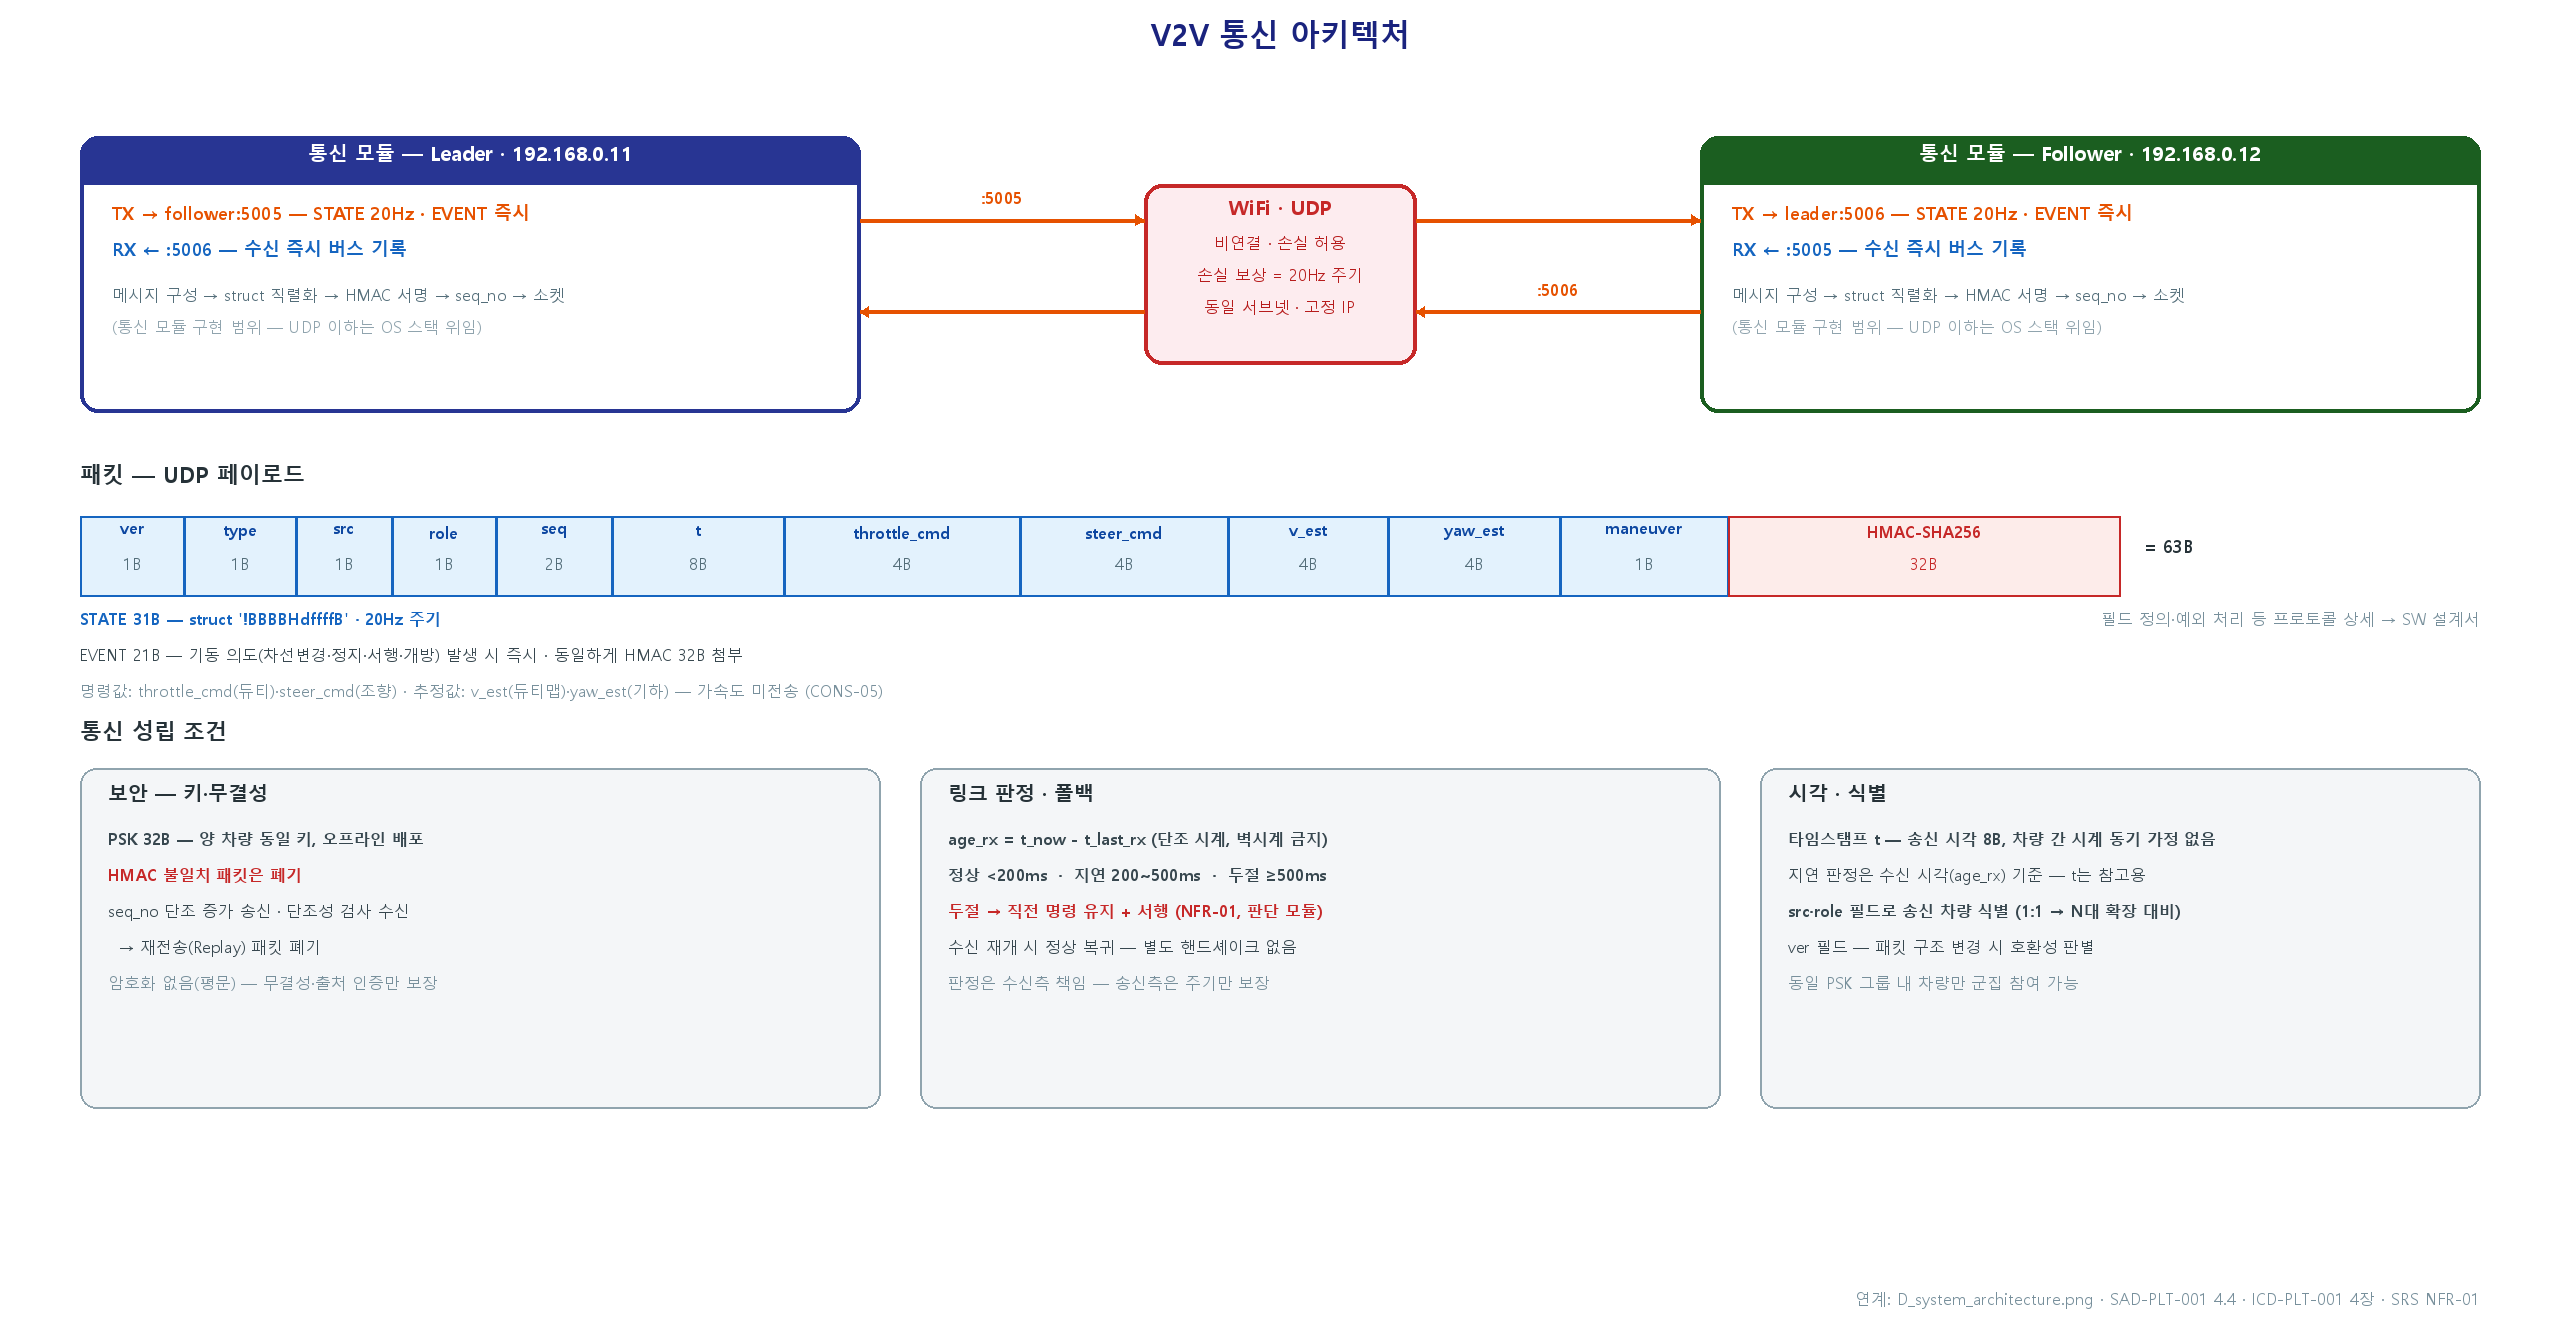
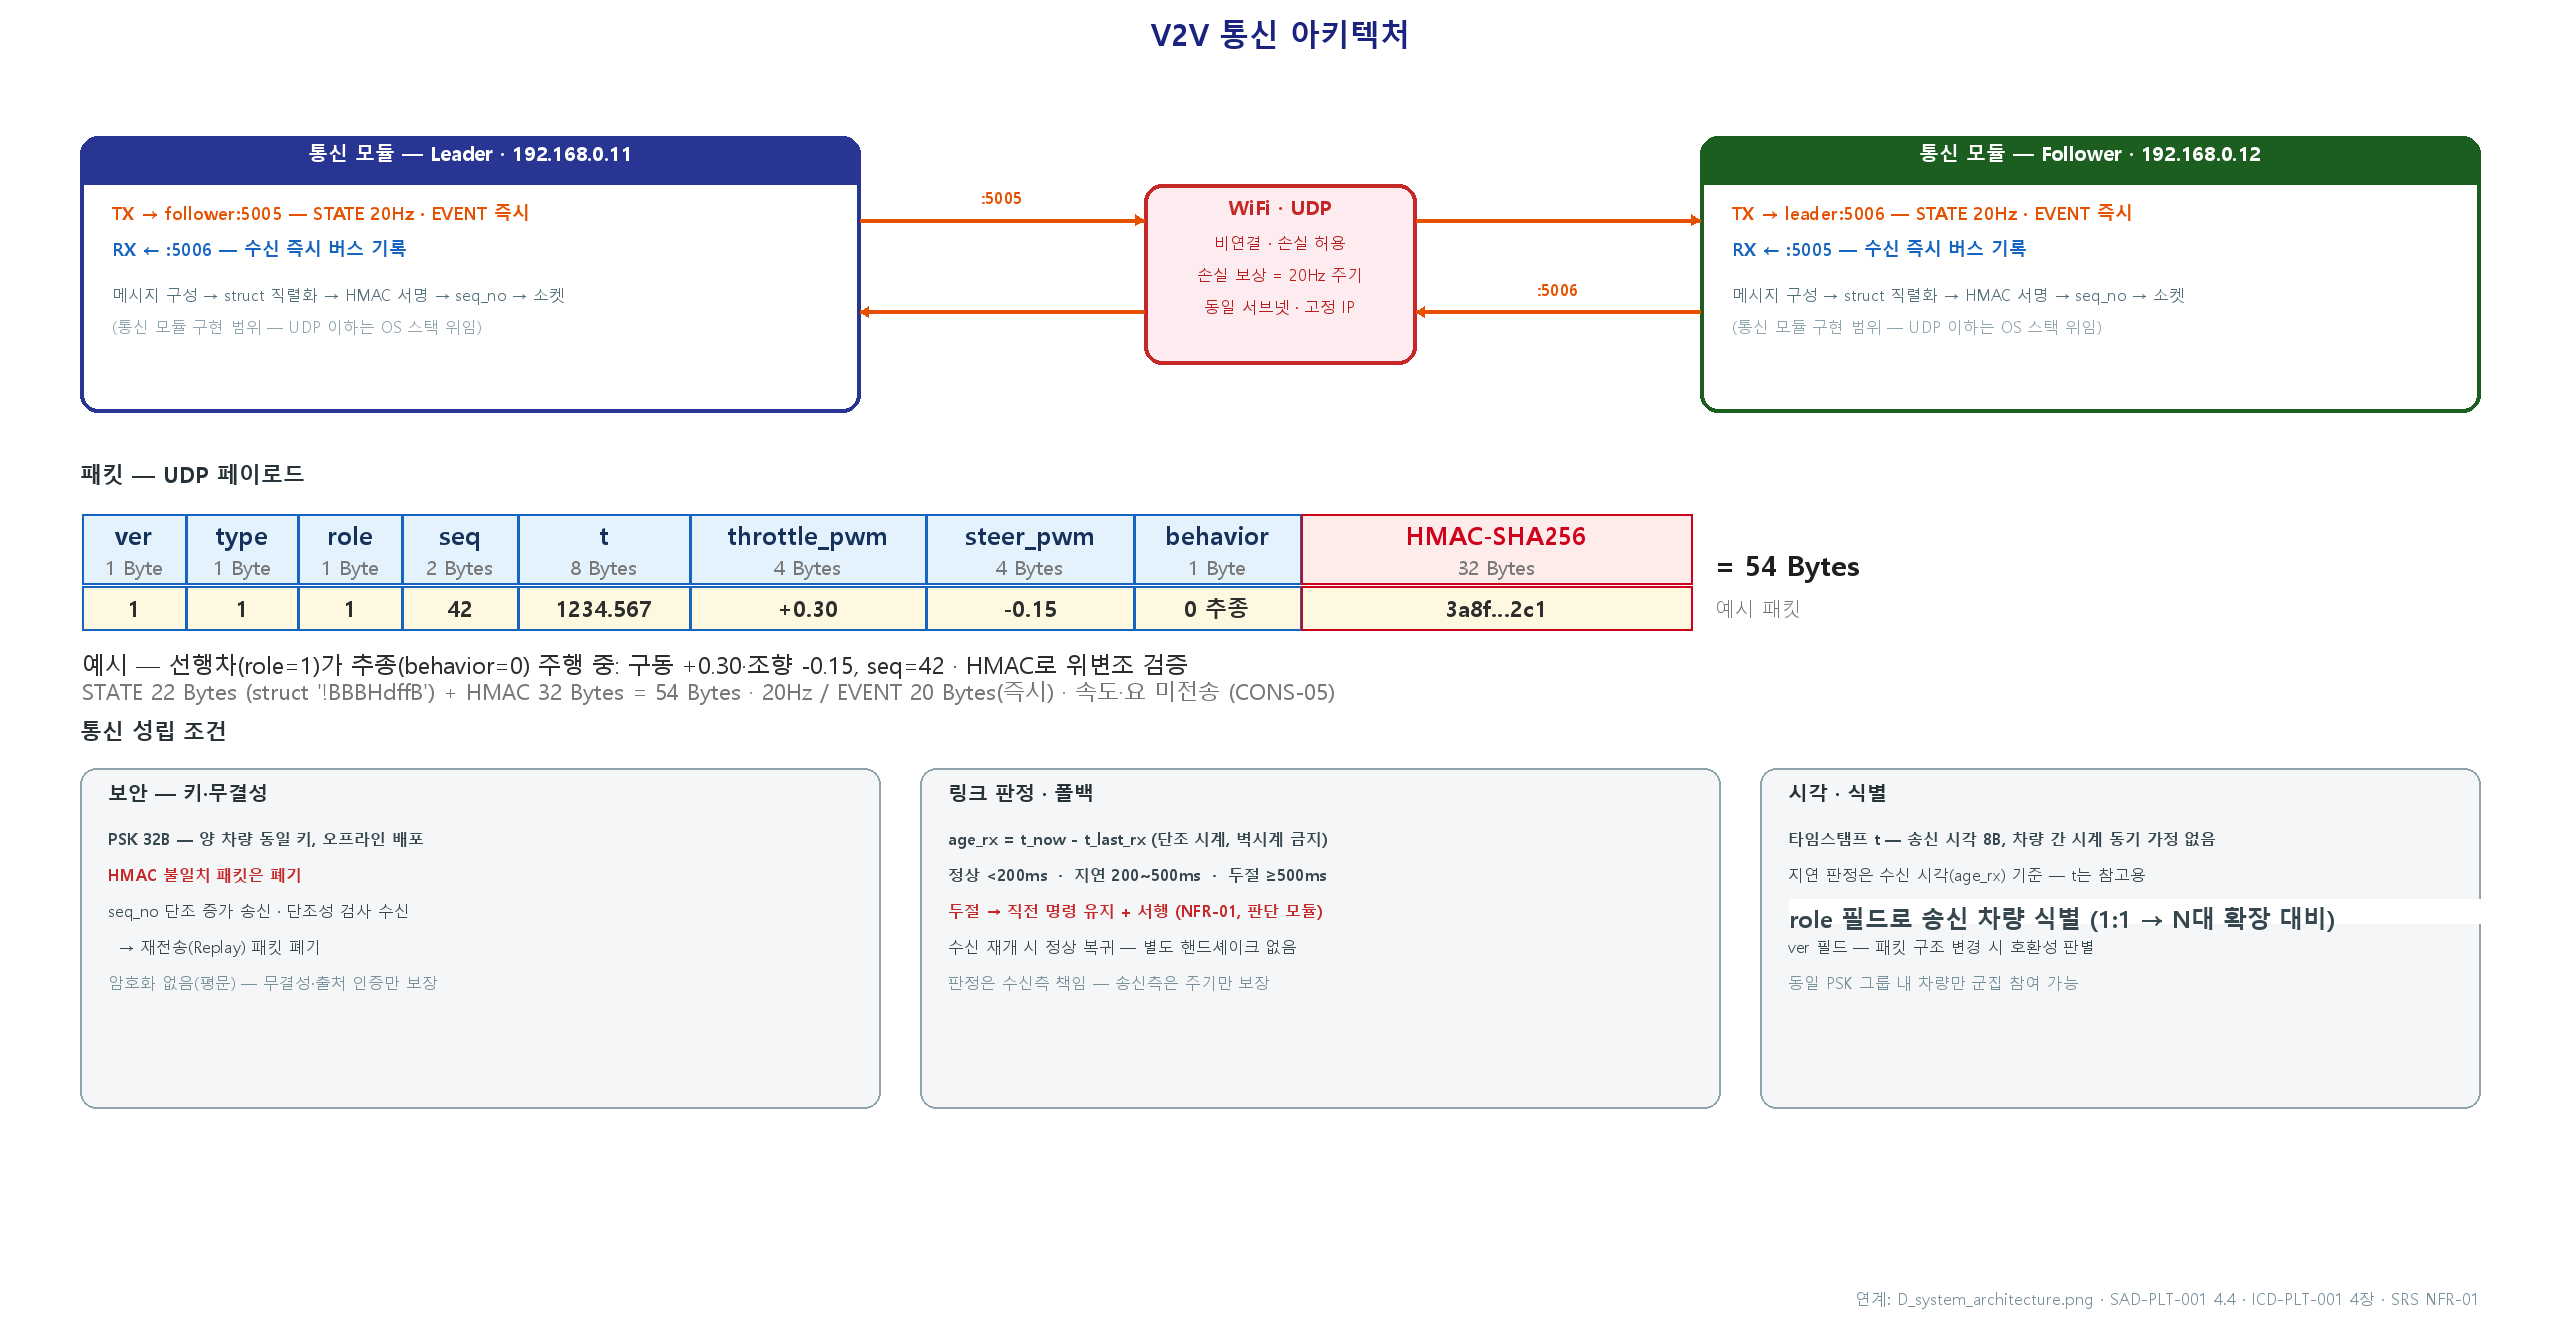
feat: 2원칙 정합 CR — 종=PWM→DC모터 후륜·횡=PWM→서보1개, 코드↔문서↔다이어그램 양방향 일관
제어 2원칙으로 코드·문서 14종·다이어그램 4개 전면 정합 (속도센서 없음, CONS-05):
- 네이밍: throttle_cmd→throttle_pwm, steer_cmd→steer_pwm, maneuver→behavior, decision/command, DriveCommand/DriveBehavior
- STATE 패킷 31B/63B→22B/54B(!BBBHdffB): v_est·yaw_est 제거(PWM에서 파생·중복), src·mode 제거, behavior 추가. ICD 와이어표=코드 패킷 정확 일치
- 속도 PID·조향각 PID/실측 제거(SRS 발원지부터 SAD/SDD/SUT 전파): 종=개루프 듀티, 후행=초음파 거리 단순보정, 횡=카메라 차선루프
- 코드↔문서 인터페이스 정합: lane_curvature·dist_front_m·t_tx·t_rx·age_rx·last_seq·ModeCmd.cause·V2VState.role, GPIO 핀 12/13·5·6/23·24
- 신설: NFR-05 통신보안(HMAC·PSK·seq) 전 매트릭스 전파, CONS-05 HRS 추가, HRS 제약-요구 연결 정정
- 다이어그램: 통신(패킷표 Bytes 표기+완성 패킷 예시), 시스템·SW(라벨), HW 점검
- 검증: 포괄 양방향 추적성 감사 3회 수렴 — high 0건, Baseline 승인 가능
- src/: 6인 협업 평면 구조(파일=담당), 스모크·코덱 테스트 통과

Changed region(s): [[0.0312, 0.3683, 0.7188, 0.5217], [0.6875, 0.6751, 0.9062, 0.7058], [0.7188, 0.3683, 0.7812, 0.399]]

diff --git a/src/comm.py b/src/comm.py
@@ -1,10 +1,11 @@
 """통신 (DD-COM) — V2V 송수신. 이 한 파일이 통신 담당의 전부.
 
-  TX: 스케줄러가 매 50ms step() 호출 → 자차 EgoState 를 STATE 패킷으로 송신 + link_status 갱신.
+  TX: 스케줄러가 매 50ms step() 호출 → 자차 PWM 명령+행동을 STATE 패킷으로 송신 + link_status 갱신.
   RX: 별도 스레드 → 수신·HMAC 검증·디코드 → 버스에 V2VState·link_status 기록.
 
-STATE 패킷 = 본문 31B + HMAC-SHA256 32B = 63B.
-  본문 '!BBBBHdffffB' = ver type role mode seq t_tx throttle steer v_est yaw_est flags
+STATE 패킷 = 본문 22B + HMAC-SHA256 32B = 54B.
+  본문 '!BBBHdffB' = ver type role seq t_tx throttle_pwm steer_pwm behavior
+  (CONS-05: 속도·요 측정 불가 → PWM 명령 throttle_pwm·steer_pwm + 행동 behavior 만 전송)
 """
 import socket
 import struct
@@ -15,34 +16,34 @@ import time
 
 import config
 from bus import Topics
-from contracts import V2VState, LinkStatus, LinkState, Role, Mode
+from contracts import V2VState, LinkStatus, LinkState, Role, DriveBehavior
 
 # ── STATE 패킷 코덱 ───────────────────────────────────────────────────
-_FMT = "!BBBBHdffffB"
-_HDR = struct.calcsize(_FMT)        # 31
-PACKET_LEN = _HDR + 32              # 63
+_FMT = "!BBBHdffB"
+_HDR = struct.calcsize(_FMT)        # 22
+PACKET_LEN = _HDR + 32              # 54
 _VER, _STATE = 1, 1
 
 
-def pack_state(ego, role, seq, mode, key):
-    """EgoState → 63B STATE 패킷."""
-    body = struct.pack(_FMT, _VER, _STATE, int(role), int(mode), seq & 0xFFFF,
-                       ego.stamp, ego.throttle_cmd, ego.steer_cmd, ego.v_est, ego.yaw_est, 0)
+def pack_state(ego, role, seq, key):
+    """EgoState(throttle_pwm·steer_pwm·behavior) → 54B STATE 패킷."""
+    body = struct.pack(_FMT, _VER, _STATE, int(role), seq & 0xFFFF,
+                       ego.stamp, ego.throttle_pwm, ego.steer_pwm, int(ego.behavior))
     return body + hmac.new(key, body, hashlib.sha256).digest()
 
 
 def unpack_state(pkt, key):
-    """63B 패킷 → V2VState. 길이/HMAC/버전 불일치 시 ValueError(폐기)."""
+    """54B 패킷 → V2VState. 길이/HMAC/버전 불일치 시 ValueError(폐기)."""
     if len(pkt) != PACKET_LEN:
         raise ValueError(f"길이 오류 {len(pkt)}≠{PACKET_LEN}")
     body, mac = pkt[:_HDR], pkt[_HDR:]
     if not hmac.compare_digest(mac, hmac.new(key, body, hashlib.sha256).digest()):
         raise ValueError("HMAC 불일치 — 위변조/키 불일치 패킷 폐기")
-    ver, typ, role, mode, seq, t, thr, st, v, yaw, _flags = struct.unpack(_FMT, body)
+    ver, typ, role, seq, t, thr, st, beh = struct.unpack(_FMT, body)
     if ver != _VER or typ != _STATE:
         raise ValueError(f"미지원 패킷 ver={ver} type={typ}")
-    return V2VState(stamp=t, role=Role(role), seq=seq, mode=Mode(mode),
-                    throttle_cmd=thr, steer_cmd=st, v_est=v, yaw_est=yaw)
+    return V2VState(t_tx=t, role=Role(role), seq=seq,
+                    throttle_pwm=thr, steer_pwm=st, behavior=DriveBehavior(beh))
 
 
 # ── 통신 모듈 ─────────────────────────────────────────────────────────
@@ -68,13 +69,11 @@ class CommModule:
 
     # 스케줄러 호출 — 송신(TX)
     def step(self, bus):
-        ego = bus.read(Topics.EGO_STATE)               # 입력 IF-B4
-        mode_cmd = bus.read(Topics.MODE)               # 입력 IF-B3
-        mode = mode_cmd.mode if mode_cmd is not None else Mode.NORMAL
+        ego = bus.read(Topics.EGO_STATE)               # 입력 IF-B4 (throttle_pwm·steer_pwm·behavior)
         if ego is not None:
             self._seq = (self._seq + 1) & 0xFFFF
             try:
-                self._tx.sendto(pack_state(ego, self._role, self._seq, mode, self._key), self._peer)
+                self._tx.sendto(pack_state(ego, self._role, self._seq, self._key), self._peer)
             except OSError:
                 pass                                   # TODO: 송신 실패 카운트/경보
         bus.publish(Topics.LINK_STATUS, self._link_status())   # IF-B6
@@ -90,15 +89,17 @@ class CommModule:
                 state = unpack_state(data, self._key)
             except ValueError:
                 continue                               # 위변조/길이 오류 폐기
-            self._last_rx = time.monotonic()
+            now = time.monotonic()
+            self._last_rx = now
             self._rx_seq = state.seq
+            state.t_rx = now                           # 수신 시각 기록 (IF-B5)
             self._bus.publish(self._rx_topic, state)               # IF-B5
             self._bus.publish(Topics.LINK_STATUS, self._link_status())  # IF-B6
 
     def _link_status(self):
         now = time.monotonic()
         if self._last_rx is None:
-            return LinkStatus(stamp=now, state=LinkState.LOST, age_ms=9999.0, rx_seq=self._rx_seq)
+            return LinkStatus(stamp=now, state=LinkState.LOST, age_rx=9999.0, last_seq=self._rx_seq)
         age = (now - self._last_rx) * 1000.0
         if age < config.LINK_STALE_MS:
             state = LinkState.ALIVE
@@ -106,7 +107,7 @@ class CommModule:
             state = LinkState.STALE
         else:
             state = LinkState.LOST
-        return LinkStatus(stamp=now, state=state, age_ms=age, rx_seq=self._rx_seq)
+        return LinkStatus(stamp=now, state=state, age_rx=age, last_seq=self._rx_seq)
 
     # 생명주기 (main 이 호출, 스케줄러 아님)
     def start(self, bus):

diff --git a/src/motion.py b/src/motion.py
@@ -1,23 +1,34 @@
-"""주행 (STUB — 모션팀 담당). Maneuver 읽어 제어, EgoState 발행 + 액추에이터.
+"""주행 (STUB — 모션팀 담당). DriveCommand 읽어 제어, EgoState 발행 + 액추에이터.
 
-실제: 경로계획·Pure Pursuit(횡)·CACC(후행 종)·구동 듀티 → GPIO/PWM (gpiozero).
-입력: maneuver(IF-B2)·scene(IF-B1)·leader_state(IF-B5, 후행 CACC)
-출력: ego_state(IF-B4) + 서보/DC모터 GPIO
+제어 2원칙:
+  종방향 = throttle_pwm(PWM 듀티) → DC 모터드라이버 → DC 모터 → 후륜 (개루프; 후행만 초음파 거리 보정)
+  횡방향 = steer_pwm(PWM) → 서보 1개 → 좌우 조향 (카메라 차선 루프; 조향각 센서 없음)
+입력: command(IF-B2)·scene(IF-B1)·leader_state(IF-B5)
+출력: ego_state(IF-B4, throttle_pwm·steer_pwm) + 서보/DC모터 GPIO
 주의: GPIO는 라즈베리에서만. 더미는 하드웨어 미접근(노트북 실행 OK).
 """
 import time
 
 from bus import Topics
-from contracts import EgoState
+from contracts import EgoState, DriveBehavior
+
+# 액추에이터 (gpiozero PWM, 피드백 없음. 핀: ICD IF-H3/H4·HWD 기준)
+#   서보(조향): PWMOutputDevice(SERVO_PIN, frequency=50), 펄스폭 1.0~2.0ms·중립 1.5ms (ICD IF-H3)
+#   DC모터(구동): Motor(forward=IN1, backward=IN2, enable=PWM, pwm=True), forward/backward(speed 0~1)
+SERVO_PIN, SERVO_FREQ = 12, 50                          # IF-H3 서보 PWM (HW PWM0)
+SERVO_LEFT, SERVO_CENTER, SERVO_RIGHT = 0.05, 0.075, 0.10   # 1.0ms / 1.5ms 중립 / 2.0ms @50Hz (실측 보정 TBD)
+MOTOR_FORWARD, MOTOR_BACKWARD, MOTOR_ENABLE = 5, 6, 13  # IF-H4 IN1=5·IN2=6·EN/PWM=13 (HW PWM1)
 
 
 class MotionModule:
     def __init__(self, role):
-        self.role = role          # 후행(FOLLOWER)만 CACC 거리 추종
+        self.role = role          # 후행(FOLLOWER)만 초음파 거리 보정
 
     def step(self, bus):
-        maneuver = bus.read(Topics.MANEUVER)           # IF-B2
+        cmd = bus.read(Topics.COMMAND)                 # IF-B2 (behavior)
         scene = bus.read(Topics.SCENE)                 # IF-B1
         leader = bus.read(Topics.LEADER_STATE)         # IF-B5
-        # TODO(모션팀): 제어 산출 → throttle/steer 듀티, GPIO 출력
-        bus.publish(Topics.EGO_STATE, EgoState(stamp=time.monotonic()))   # 출력 IF-B4
+        behavior = cmd.behavior if cmd is not None else DriveBehavior.FOLLOW
+        # TODO(모션팀): 행동대로 throttle_pwm·steer_pwm 산출 → GPIO 출력
+        bus.publish(Topics.EGO_STATE,
+                    EgoState(stamp=time.monotonic(), behavior=behavior))   # 출력 IF-B4

diff --git a/src/test_comm.py b/src/test_comm.py
@@ -8,25 +8,26 @@ import sys
 
 sys.path.insert(0, os.path.dirname(__file__))   # src 어디서 실행하든 import 가능
 
-from contracts import EgoState, Role, Mode      # noqa: E402
-from comm import pack_state, unpack_state, PACKET_LEN   # noqa: E402
+from contracts import EgoState, Role, DriveBehavior   # noqa: E402
+from comm import pack_state, unpack_state, PACKET_LEN  # noqa: E402
 
 KEY = b"test-key"
 
 
 def test_roundtrip():
-    ego = EgoState(stamp=12.5, throttle_cmd=0.3, steer_cmd=-0.2, v_est=1.1, yaw_est=0.05)
-    pkt = pack_state(ego, Role.LEADER, 7, Mode.NORMAL, KEY)
+    ego = EgoState(stamp=12.5, throttle_pwm=0.3, steer_pwm=-0.2, behavior=DriveBehavior.STOP)
+    pkt = pack_state(ego, Role.LEADER, 7, KEY)
     assert len(pkt) == PACKET_LEN
     st = unpack_state(pkt, KEY)
     assert st.seq == 7 and st.role == Role.LEADER
-    assert abs(st.throttle_cmd - 0.3) < 1e-6
-    assert abs(st.v_est - 1.1) < 1e-6
+    assert st.behavior == DriveBehavior.STOP
+    assert abs(st.throttle_pwm - 0.3) < 1e-6
+    assert abs(st.steer_pwm - (-0.2)) < 1e-6
 
 
 def test_tamper_rejected():
-    pkt = bytearray(pack_state(EgoState(throttle_cmd=0.5), Role.FOLLOWER, 1, Mode.NORMAL, KEY))
-    pkt[10] ^= 0xFF                              # 본문 1바이트 변조
+    pkt = bytearray(pack_state(EgoState(throttle_pwm=0.5, behavior=DriveBehavior.FOLLOW), Role.FOLLOWER, 1, KEY))
+    pkt[9] ^= 0xFF                              # 본문 1바이트 변조
     try:
         unpack_state(bytes(pkt), KEY)
         assert False, "변조 패킷이 통과됨"

diff --git a/src/decision.py b/src/decision.py
@@ -1,13 +1,13 @@
-"""판단 (STUB — 판단팀 담당). Scene·V2V·링크 읽어 Maneuver·Mode 발행.
+"""판단 (STUB — 판단팀 담당). Scene·V2V·링크 읽어 DriveCommand·Mode 발행.
 
-실제: 모드 전이·기동 결정·추돌 가드·통신 폴백. 지금은 흐름 확인용 더미값.
+실제: 모드 전이·행동 결정·추돌 가드·통신 폴백. 지금은 흐름 확인용 더미값.
 입력: scene(IF-B1)·link_status(IF-B6)·leader_state(IF-B5)
-출력: maneuver(IF-B2)·mode(IF-B3)
+출력: command(IF-B2, behavior+target_lane)·mode(IF-B3)
 """
 import time
 
 from bus import Topics
-from contracts import Maneuver, ModeCmd, ManeuverType, Mode
+from contracts import DriveCommand, ModeCmd, DriveBehavior, Mode
 
 
 class DecisionModule:
@@ -18,6 +18,6 @@ class DecisionModule:
         scene = bus.read(Topics.SCENE)                 # IF-B1
         link = bus.read(Topics.LINK_STATUS)            # IF-B6
         leader = bus.read(Topics.LEADER_STATE)         # IF-B5 (후행만 사용)
-        # TODO(판단팀): 위 입력으로 기동/모드 결정 (None 가드 필수)
-        bus.publish(Topics.MANEUVER, Maneuver(stamp=time.monotonic(), type=ManeuverType.CRUISE))
+        # TODO(판단팀): 위 입력으로 행동/모드 결정 (None 가드 필수)
+        bus.publish(Topics.COMMAND, DriveCommand(stamp=time.monotonic(), behavior=DriveBehavior.FOLLOW))
         bus.publish(Topics.MODE, ModeCmd(stamp=time.monotonic(), mode=Mode.NORMAL))

diff --git a/src/config.py b/src/config.py
@@ -30,6 +30,8 @@ def load_key() -> bytes:
     """
     path = os.path.join(os.path.dirname(__file__), "psk.key")
     if os.path.exists(path):
-        with open(path, "rb") as f:
-            return f.read().strip()
-    return b"DEV-INSECURE-PSK-CHANGE-ME"   # TODO: 운영 전 psk.key 배포
+        key = open(path, "rb").read().strip()
+        if len(key) != 32:                      # ICD: PSK 32B
+            raise ValueError(f"psk.key 길이 {len(key)}B ≠ 32B")
+        return key
+    return b"DEVKEY-INSECURE-CHANGE-ME-32BYTE"   # 32B 개발용 (ICD PSK 32B). 운영 전 psk.key 배포

diff --git a/src/bus.py b/src/bus.py
@@ -9,7 +9,7 @@ import threading
 class Topics:
     """버스 토픽 정의 — 정의된 토픽만 사용 가능 (ICD 3장)"""
     SCENE = "perception/scene"             # IF-B1 인지 결과   (인지 → 판단·주행)
-    MANEUVER = "decision/maneuver"         # IF-B2 기동 명령   (판단 → 주행·통신)
+    COMMAND = "decision/command"           # IF-B2 주행 명령   (판단 → 주행·통신)
     MODE = "decision/mode"                 # IF-B3 시스템 모드 (판단 → 전 모듈)
     EGO_STATE = "motion/ego_state"         # IF-B4 자차 상태   (주행 → 통신)
     LEADER_STATE = "v2v/leader_state"      # IF-B5 선행차 상태 (통신 → 판단·주행, 후행 버스)
@@ -19,7 +19,7 @@ class Topics:
 
 # 버스가 인식하는 전체 토픽 (이 외 토픽 publish/read 시 거부)
 ALL_TOPICS = [
-    Topics.SCENE, Topics.MANEUVER, Topics.MODE, Topics.EGO_STATE,
+    Topics.SCENE, Topics.COMMAND, Topics.MODE, Topics.EGO_STATE,
     Topics.LEADER_STATE, Topics.FOLLOWER_STATE, Topics.LINK_STATUS,
 ]
 

diff --git a/src/perception.py b/src/perception.py
@@ -8,6 +8,9 @@ import time
 from bus import Topics
 from contracts import Scene
 
+# 센서 핀 (ICD IF-H2 / HWD)
+ULTRASONIC_TRIG, ULTRASONIC_ECHO = 23, 24   # 전방 초음파 (ECHO 5V→3.3V 분압)
+
 
 class PerceptionModule:
     def step(self, bus):

diff --git a/src/README.md b/src/README.md
@@ -8,8 +8,8 @@
 |---|---|---|---|
 | 통신/인프라 | 1 | `comm.py` `bus.py` `scheduler.py` `config.py` `main.py` | V2V 송수신·버스·루프 (80% 완성) |
 | 인지 | 2 | `perception.py` | 카메라(차선·YOLO)+초음파 → `scene` |
-| 판단 | 1 | `decision.py` | scene·V2V → `maneuver`·`mode` |
-| 모션 | 2 | `motion.py` | maneuver → 제어·구동(GPIO), `ego_state` |
+| 판단 | 1 | `decision.py` | scene·V2V → `command`·`mode` |
+| 모션 | 2 | `motion.py` | command → 제어·구동(GPIO), `ego_state` |
 | (공용) | 6 | `contracts.py` | 토픽 데이터 형식 — **모두가 보고, writer만 고침** |
 
 - `contracts.py` 가 6명의 공통 약속(필드·타입·단위). 여기 정의된 dataclass만 버스로 주고받는다.
@@ -29,9 +29,9 @@ main은 조립 후 스케줄러만 부르고, 스케줄러가 매 50ms 모듈 st
 
 ## 버스 구조 (모듈 간 직접 호출 금지, 버스만 경유)
 ```
-perception ──scene──▶ decision ──maneuver──▶ motion ──ego_state──▶ comm
-                         ▲                      ▲                    │
-                         └── link_status ───────┴── leader_state ────┘
+perception ──scene──▶ decision ──command──▶ motion ──ego_state──▶ comm
+                         ▲                     ▲                    │
+                         └── link_status ──────┴── leader_state ────┘
                                        (comm RX 스레드가 버스에 기록)
 ```
 - 쓰기: `bus.publish(Topics.X, data)`   읽기: `bus.read(Topics.X)`
@@ -41,7 +41,7 @@ perception ──scene──▶ decision ──maneuver──▶ motion ──eg
 | 토픽 | ICD | Writer → Reader |
 |---|---|---|
 | `perception/scene` | IF-B1 | 인지 → 판단·주행 |
-| `decision/maneuver` | IF-B2 | 판단 → 주행·통신 |
+| `decision/command` | IF-B2 | 판단 → 주행·통신 (behavior+target_lane) |
 | `decision/mode` | IF-B3 | 판단 → 전 모듈 |
 | `motion/ego_state` | IF-B4 | 주행 → 통신 |
 | `v2v/leader_state` | IF-B5 | 통신 → 판단·주행 (후행 버스) |
@@ -61,8 +61,8 @@ python test_comm.py                 # STATE 코덱 왕복·위변조 테스트
 **S-1 군집 형성·지속 주행** — 차선 따라 자율주행
 ```
 인지  차선 인식                ─scene→
-판단  기동=순항                ─maneuver, mode→
-주행  경로·Pure Pursuit·구동    ─ego_state→ (GPIO/PWM)
+판단  행동=추종                ─command, mode→
+주행  Pure Pursuit·구동 PWM    ─ego_state→ (GPIO/PWM)
 통신  STATE 송신
 ```
 
@@ -70,35 +70,35 @@ python test_comm.py                 # STATE 코덱 왕복·위변조 테스트
 ```
 [rx]  V2V 수신                ─leader_state, link_status→ (버스 기록, 비동기)
 인지  차선 인식                ─scene→
-판단  read leader·link         ─maneuver(추종)→
-주행  CACC 거리 폐루프(초음파)   ─ego_state→
+판단  read leader·link         ─command(행동=추종)→
+주행  초음파 거리 보정(듀티)     ─ego_state→
 통신  STATE 송신
 ```
 
 **S-3 전방 장애물 회피·정지**
 ```
 인지  YOLO+초음파 융합          ─scene(front_clear=false, objects)→
-판단  회피/정지 + 추돌가드      ─maneuver→
+판단  회피/정지 + 추돌가드      ─command→
 주행  회피 경로 / 정지 듀티      ─구동
 ```
 
 **S-4 정지선 정지·재출발**
 ```
 인지  정지선/STOP 검출          ─scene(stop_signal=true)→
-판단  정지선 전 정지→재출발     ─maneuver(정지→순항)→
+판단  정지선 전 정지→재출발     ─command(정지→순항)→
 주행  듀티 0 → (재출발 시) 순항
 ```
 
 **안전 — 통신 두절 폴백**
 ```
 통신  link 산출                ─link_status(두절 ≥500ms)→
-판단  폴백(직전 명령 유지+서행) + 모드(서행) ─maneuver, mode→
+판단  폴백(직전 명령 유지+서행) + 모드(서행) ─command, mode→
 주행  서행 듀티
 ```
 
 **안전 — 비상정지(ESTOP)**
 ```
-판단  자체 정지 트리거 → 모드(비상정지) ─maneuver, mode→
+판단  자체 정지 트리거 → 모드(비상정지) ─command, mode→
 주행  즉시 듀티 0
 ```
 
@@ -110,8 +110,8 @@ bus.py         메시지 버스 + 토픽 7종 (DD-INF-01)
 config.py      포트·주기·링크임계값·PSK
 contracts.py   토픽 데이터 형식 전부 (ICD IF-B1~B6)
 perception.py  step(bus): 센서→scene            [인지]
-decision.py    step(bus): scene→maneuver·mode    [판단]
-motion.py      step(bus): maneuver→ego_state·구동 [모션]
+decision.py    step(bus): scene→command·mode    [판단]
+motion.py      step(bus): command→ego_state·구동 [모션]
 comm.py        step(bus): ego_state→STATE 송신 + RX 스레드 [통신]
 test_comm.py   STATE 코덱 테스트
 ```